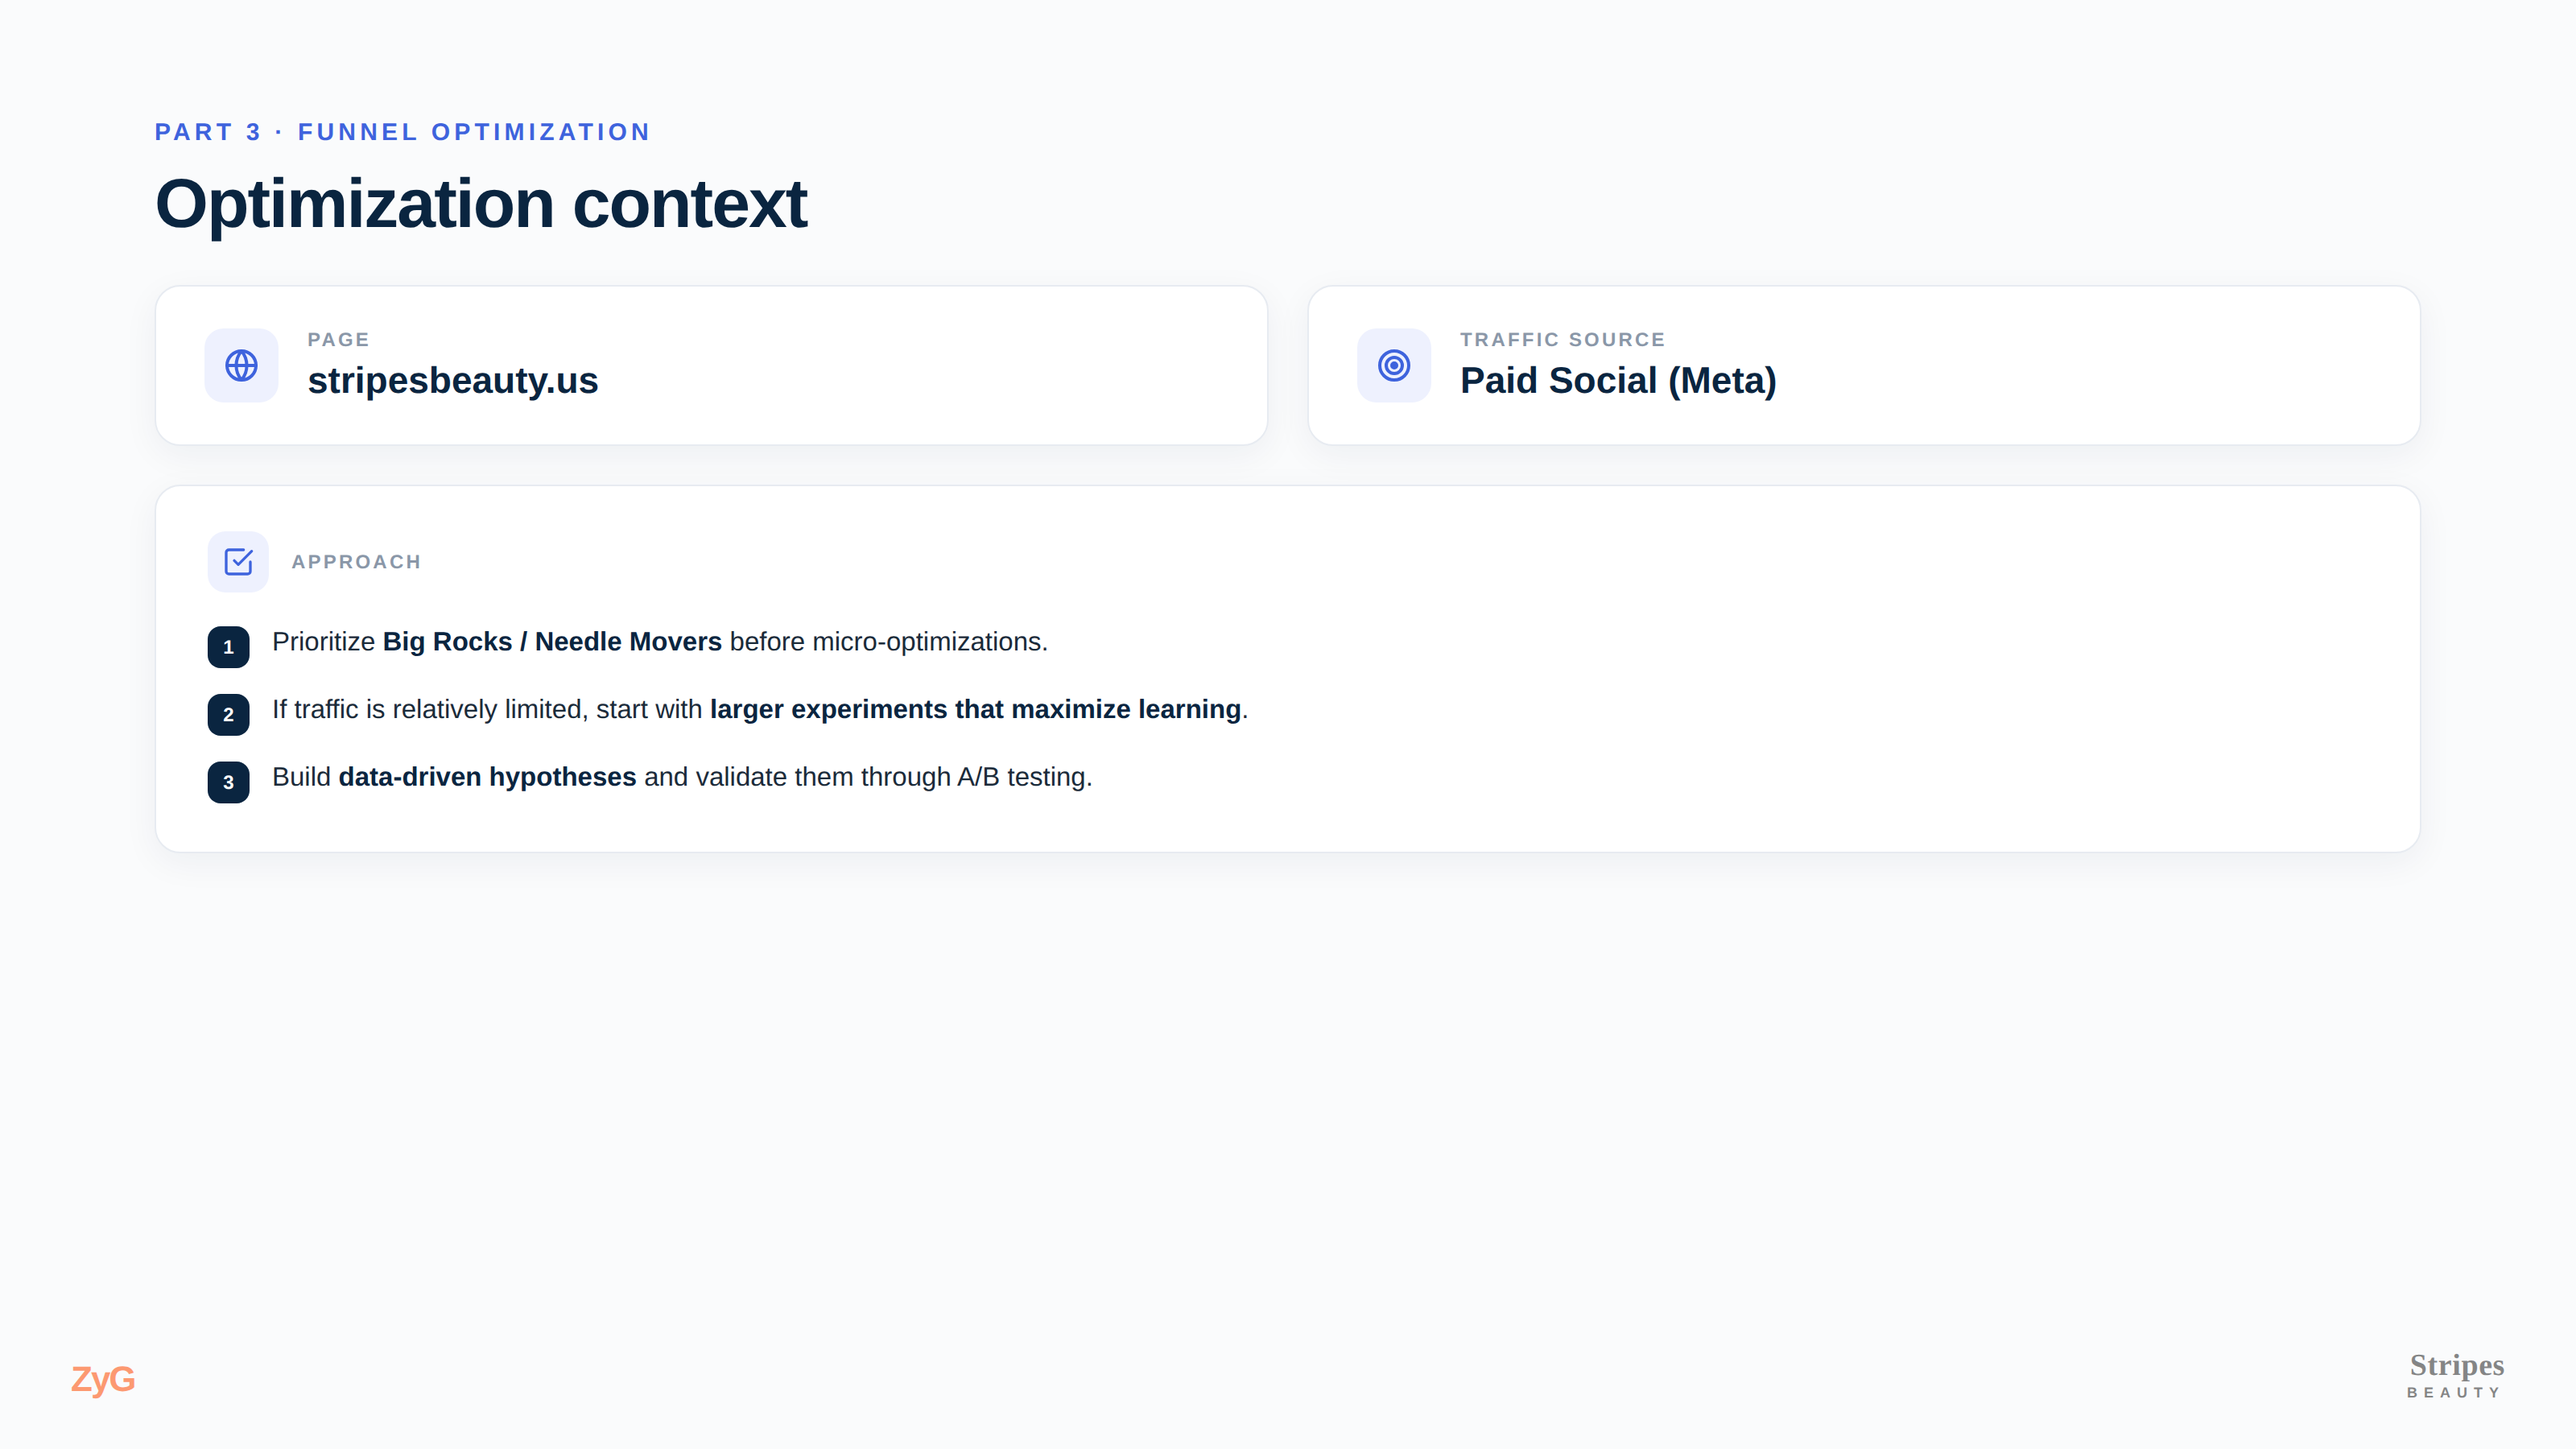
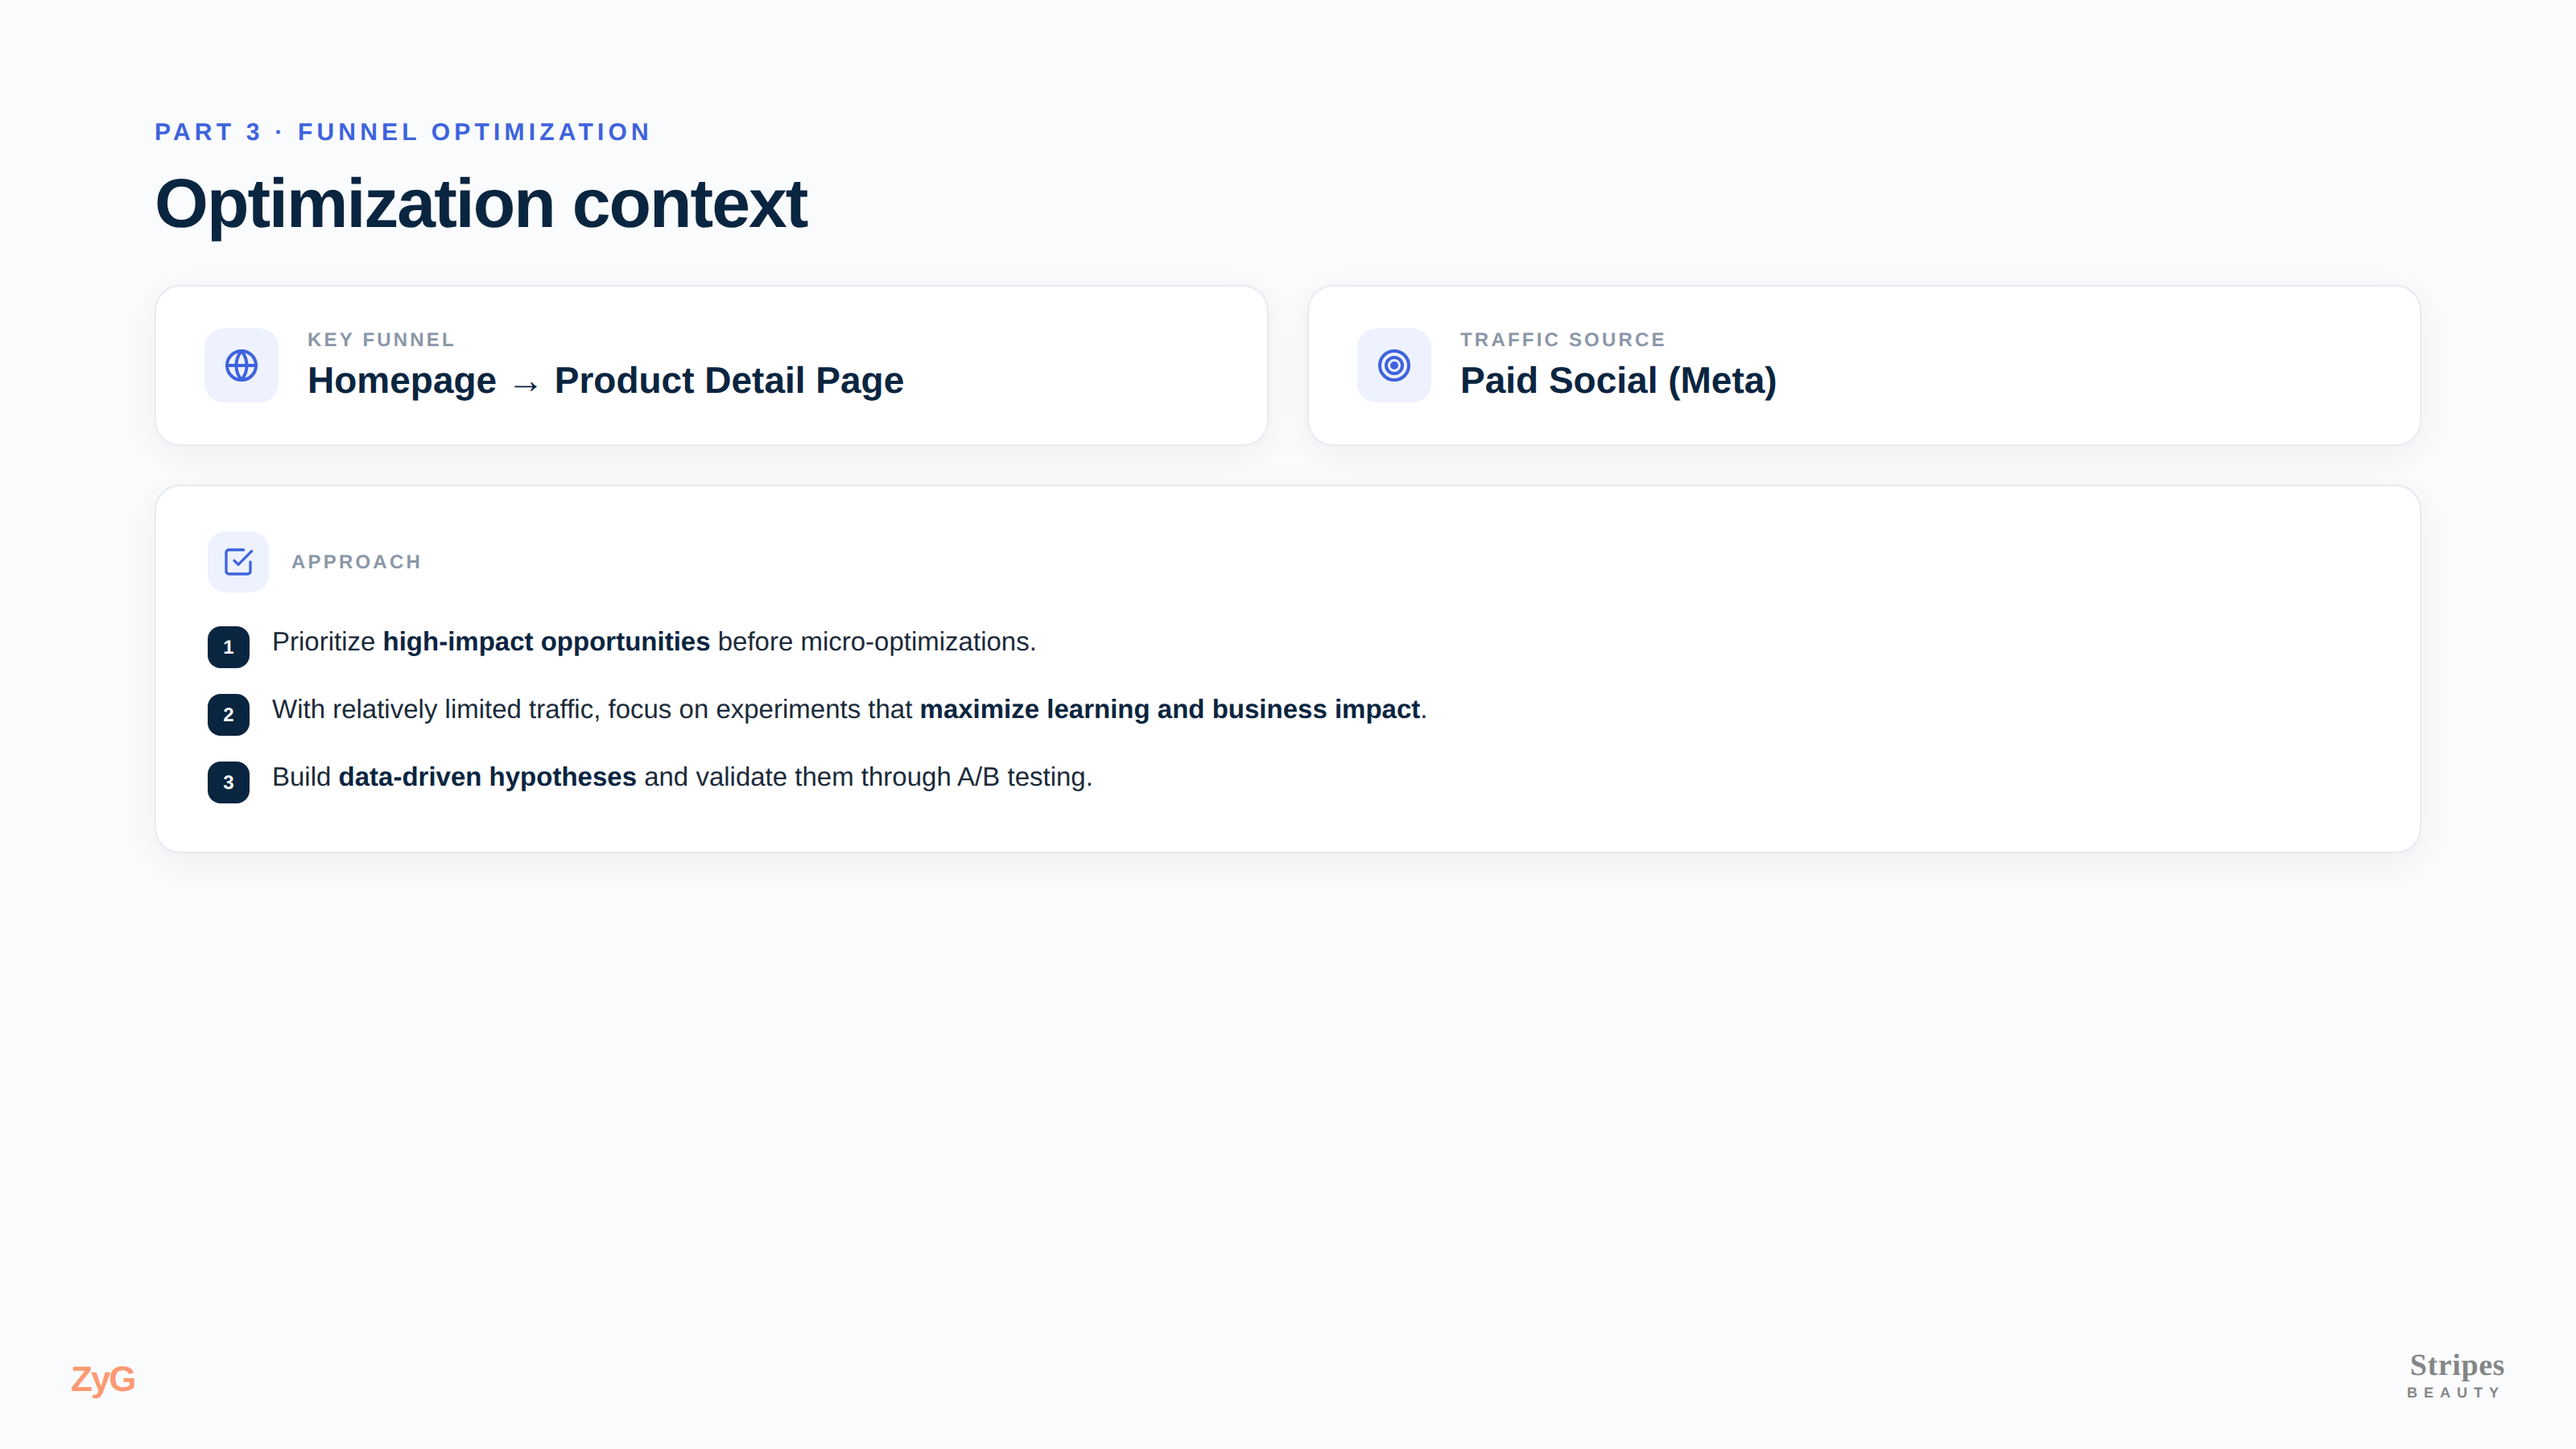
Refine Part 3 context: Key Funnel (Homepage -> PDP) + polished approach copy
Claude-Session: https://claude.ai/code/session_01GoAG3ySswQXo2H1hh5EwTk

Changed region(s): [[0.0938, 0.4356, 0.5625, 0.4978], [0.125, 0.2178, 0.3438, 0.28]]

diff --git a/diagrams/slides/p3-01-context.html b/diagrams/slides/p3-01-context.html
@@ -26,8 +26,8 @@
     <div class="stat card">
       <div class="ic"><svg viewBox="0 0 24 24" fill="none" stroke="currentColor" stroke-width="2" stroke-linecap="round" stroke-linejoin="round"><circle cx="12" cy="12" r="9"/><path d="M3 12h18M12 3a14 14 0 0 1 0 18M12 3a14 14 0 0 0 0 18"/></svg></div>
       <div>
-        <div class="lab">Page</div>
-        <div class="val">stripesbeauty.us</div>
+        <div class="lab">Key Funnel</div>
+        <div class="val">Homepage &rarr; Product Detail Page</div>
       </div>
     </div>
     <div class="stat card">
@@ -45,8 +45,8 @@
       <div class="lab">Approach</div>
     </div>
     <div class="rows">
-      <div class="ar"><span class="n">1</span><div class="t">Prioritize <b>Big Rocks / Needle Movers</b> before micro-optimizations.</div></div>
-      <div class="ar"><span class="n">2</span><div class="t">If traffic is relatively limited, start with <b>larger experiments that maximize learning</b>.</div></div>
+      <div class="ar"><span class="n">1</span><div class="t">Prioritize <b>high-impact opportunities</b> before micro-optimizations.</div></div>
+      <div class="ar"><span class="n">2</span><div class="t">With relatively limited traffic, focus on experiments that <b>maximize learning and business impact</b>.</div></div>
       <div class="ar"><span class="n">3</span><div class="t">Build <b>data-driven hypotheses</b> and validate them through A/B testing.</div></div>
     </div>
   </div>
